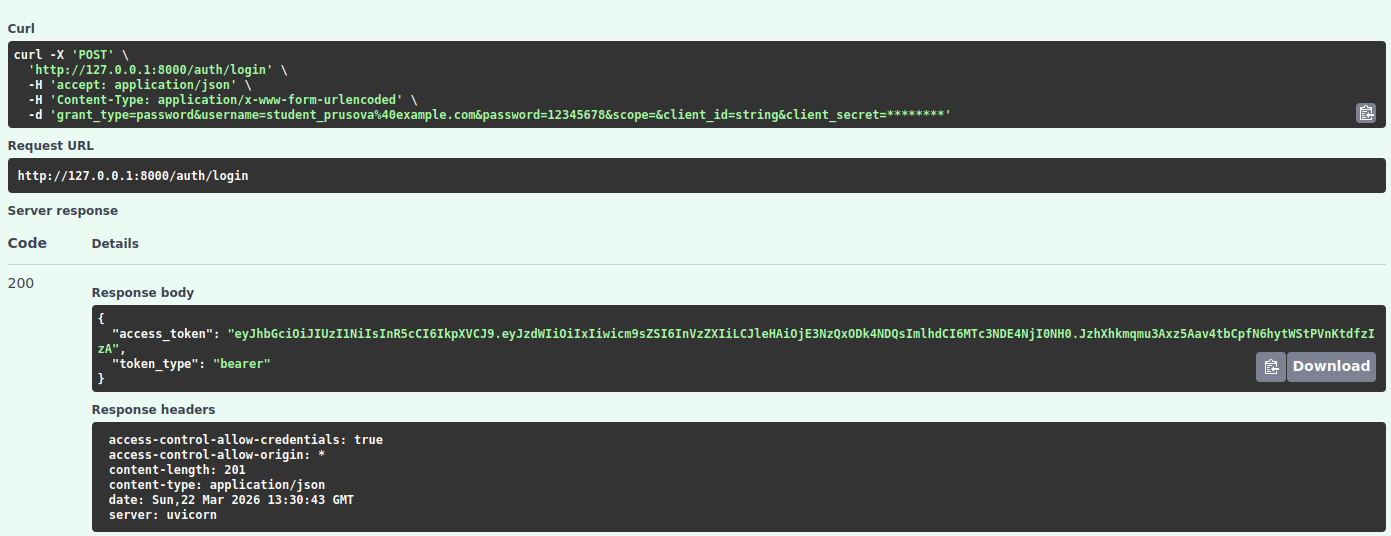
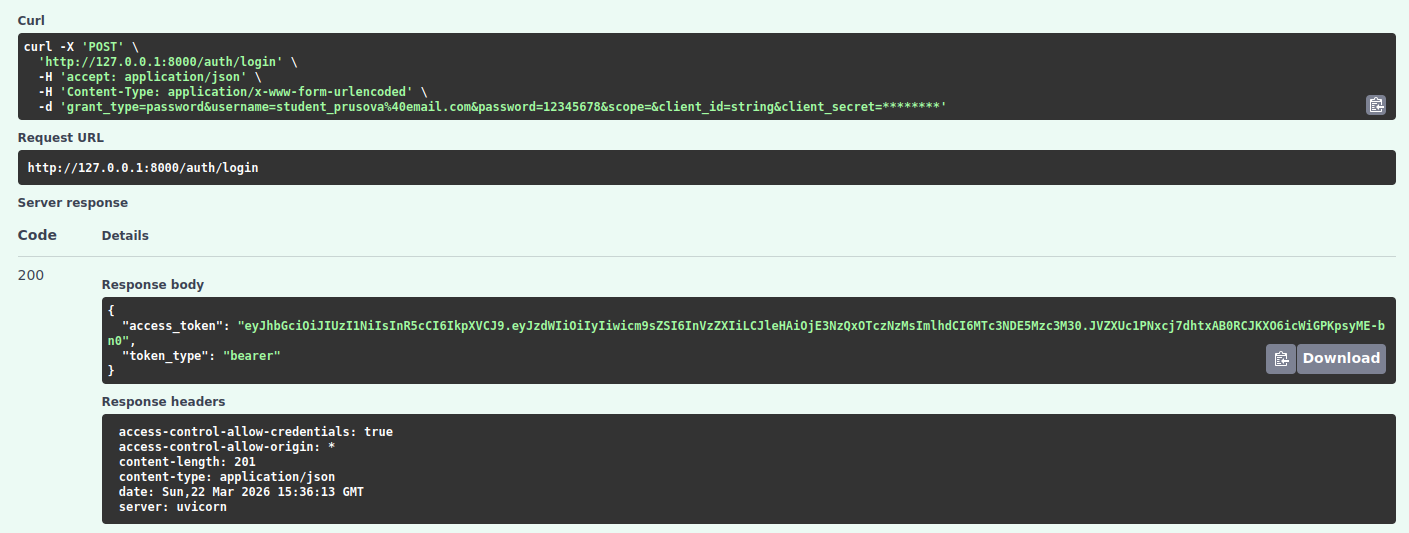
Изменение скринов для логирования

Changed region(s): [[0.0618, 0.5103, 1.0, 1.0], [0.0, 0.03, 1.0, 0.4803], [0.0, 0.5103, 0.0309, 0.5403]]

diff --git a/llm-p/docs/login/login.md b/llm-p/docs/login/login.md
@@ -18,6 +18,8 @@
 | client_id     | string  | Идентификатор клиента                    | --                    | ❌            |
 | client_secret | string  | Секрет клиента                           | --                    | ❌            |
 
+![request.png](request.png)
+
 ## Response
 
 **200 - OK**:
